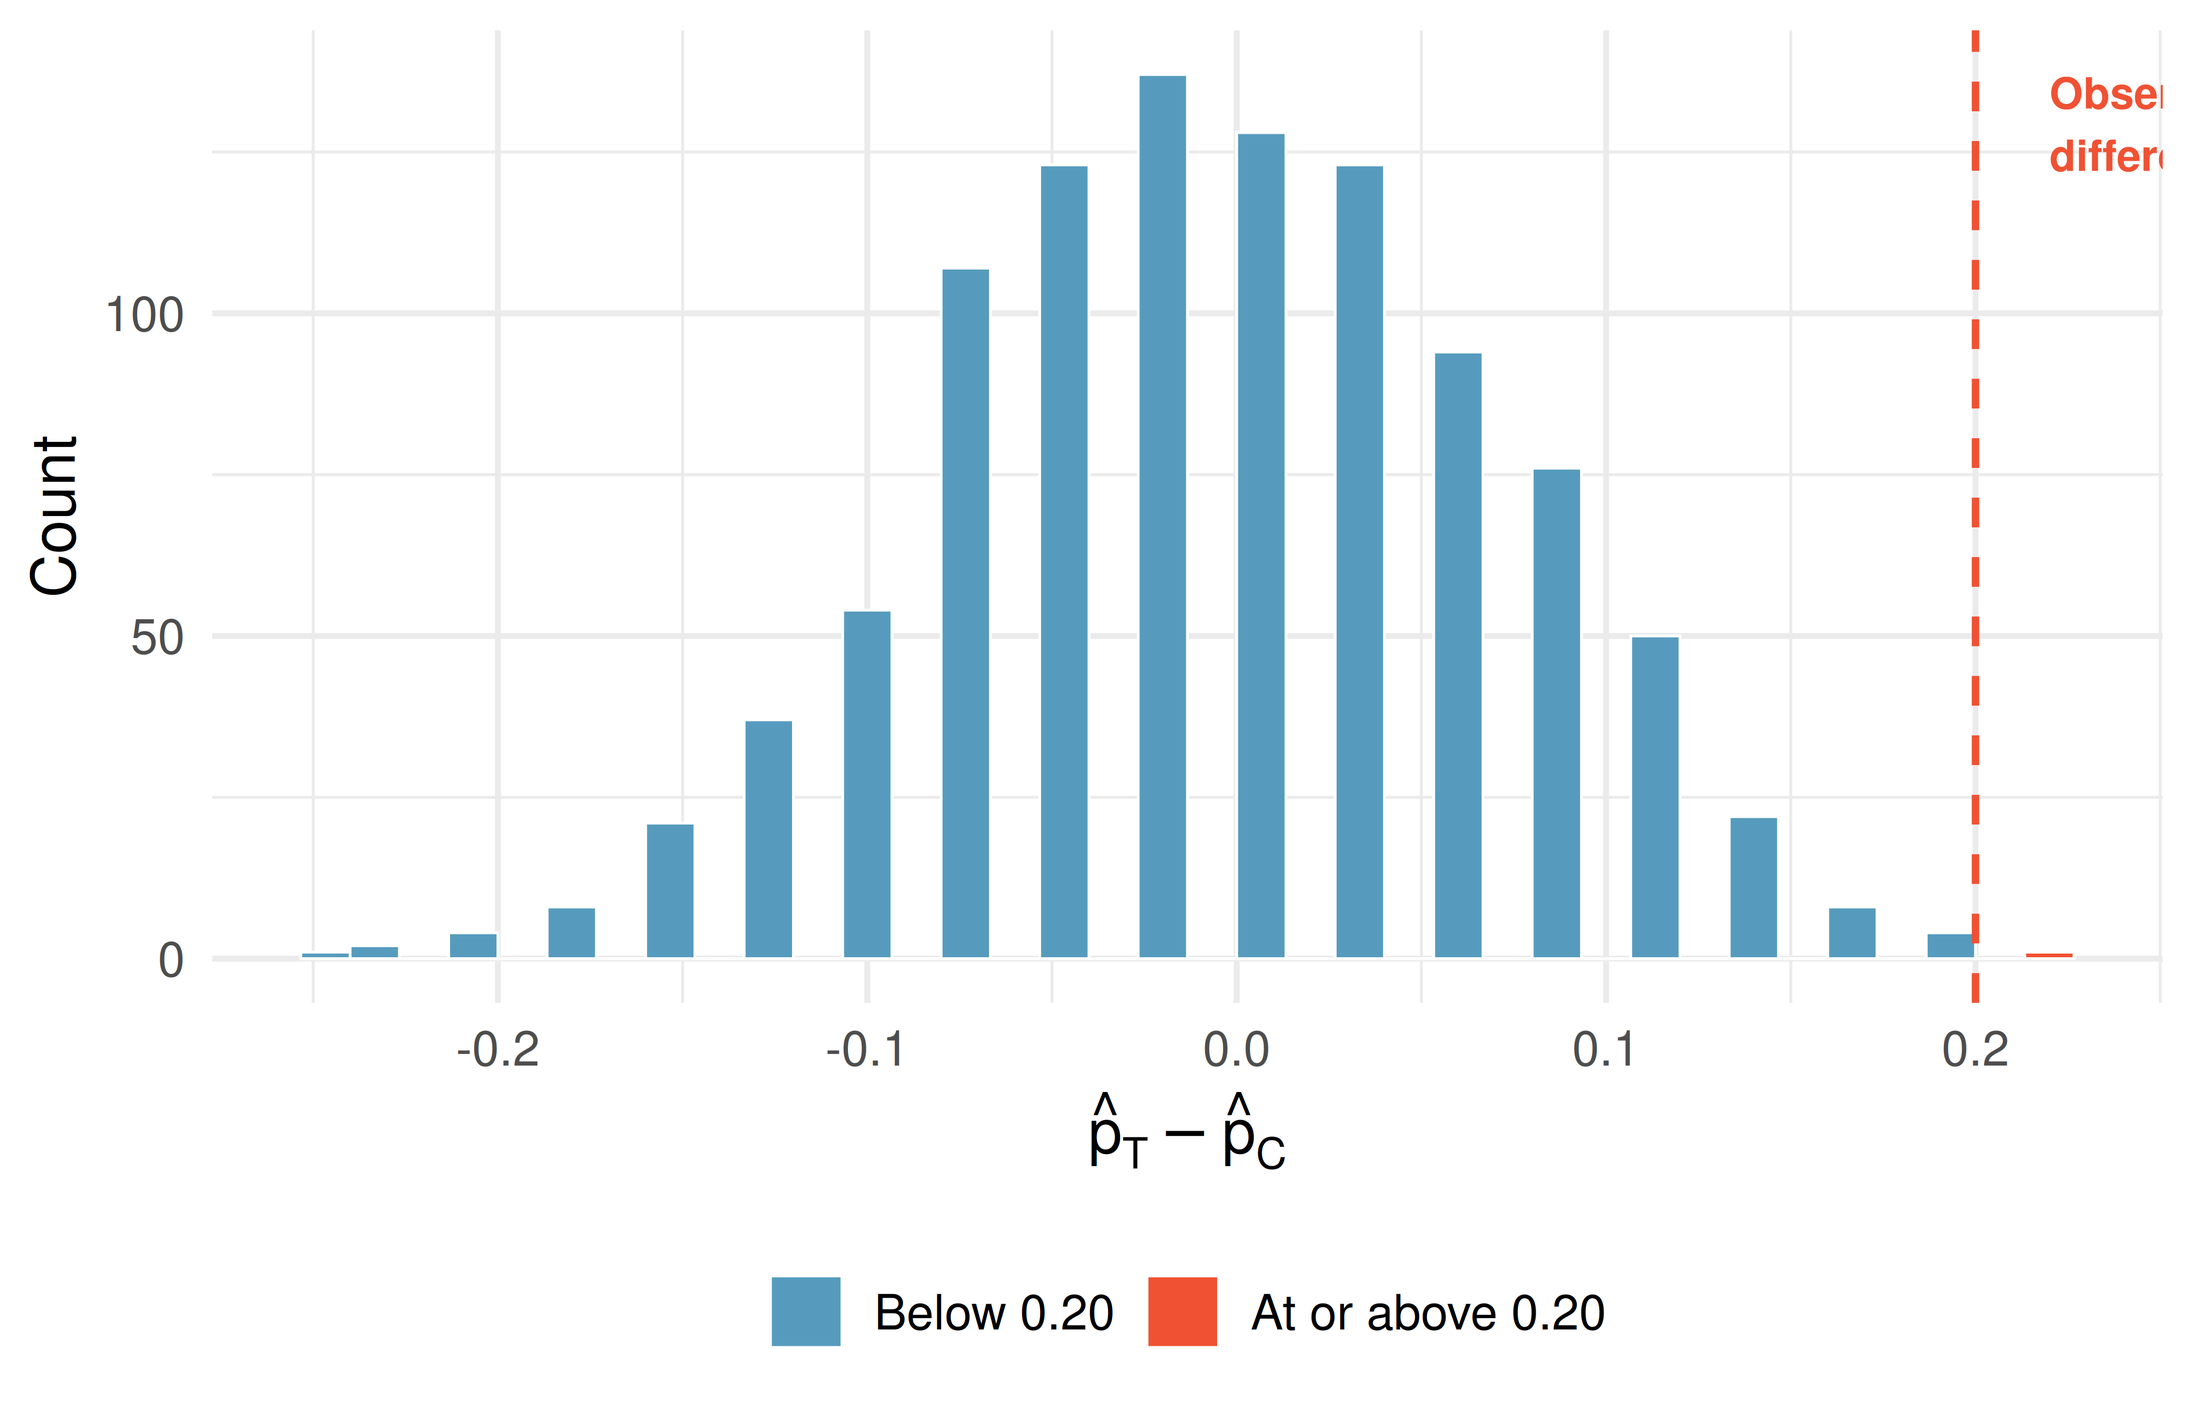
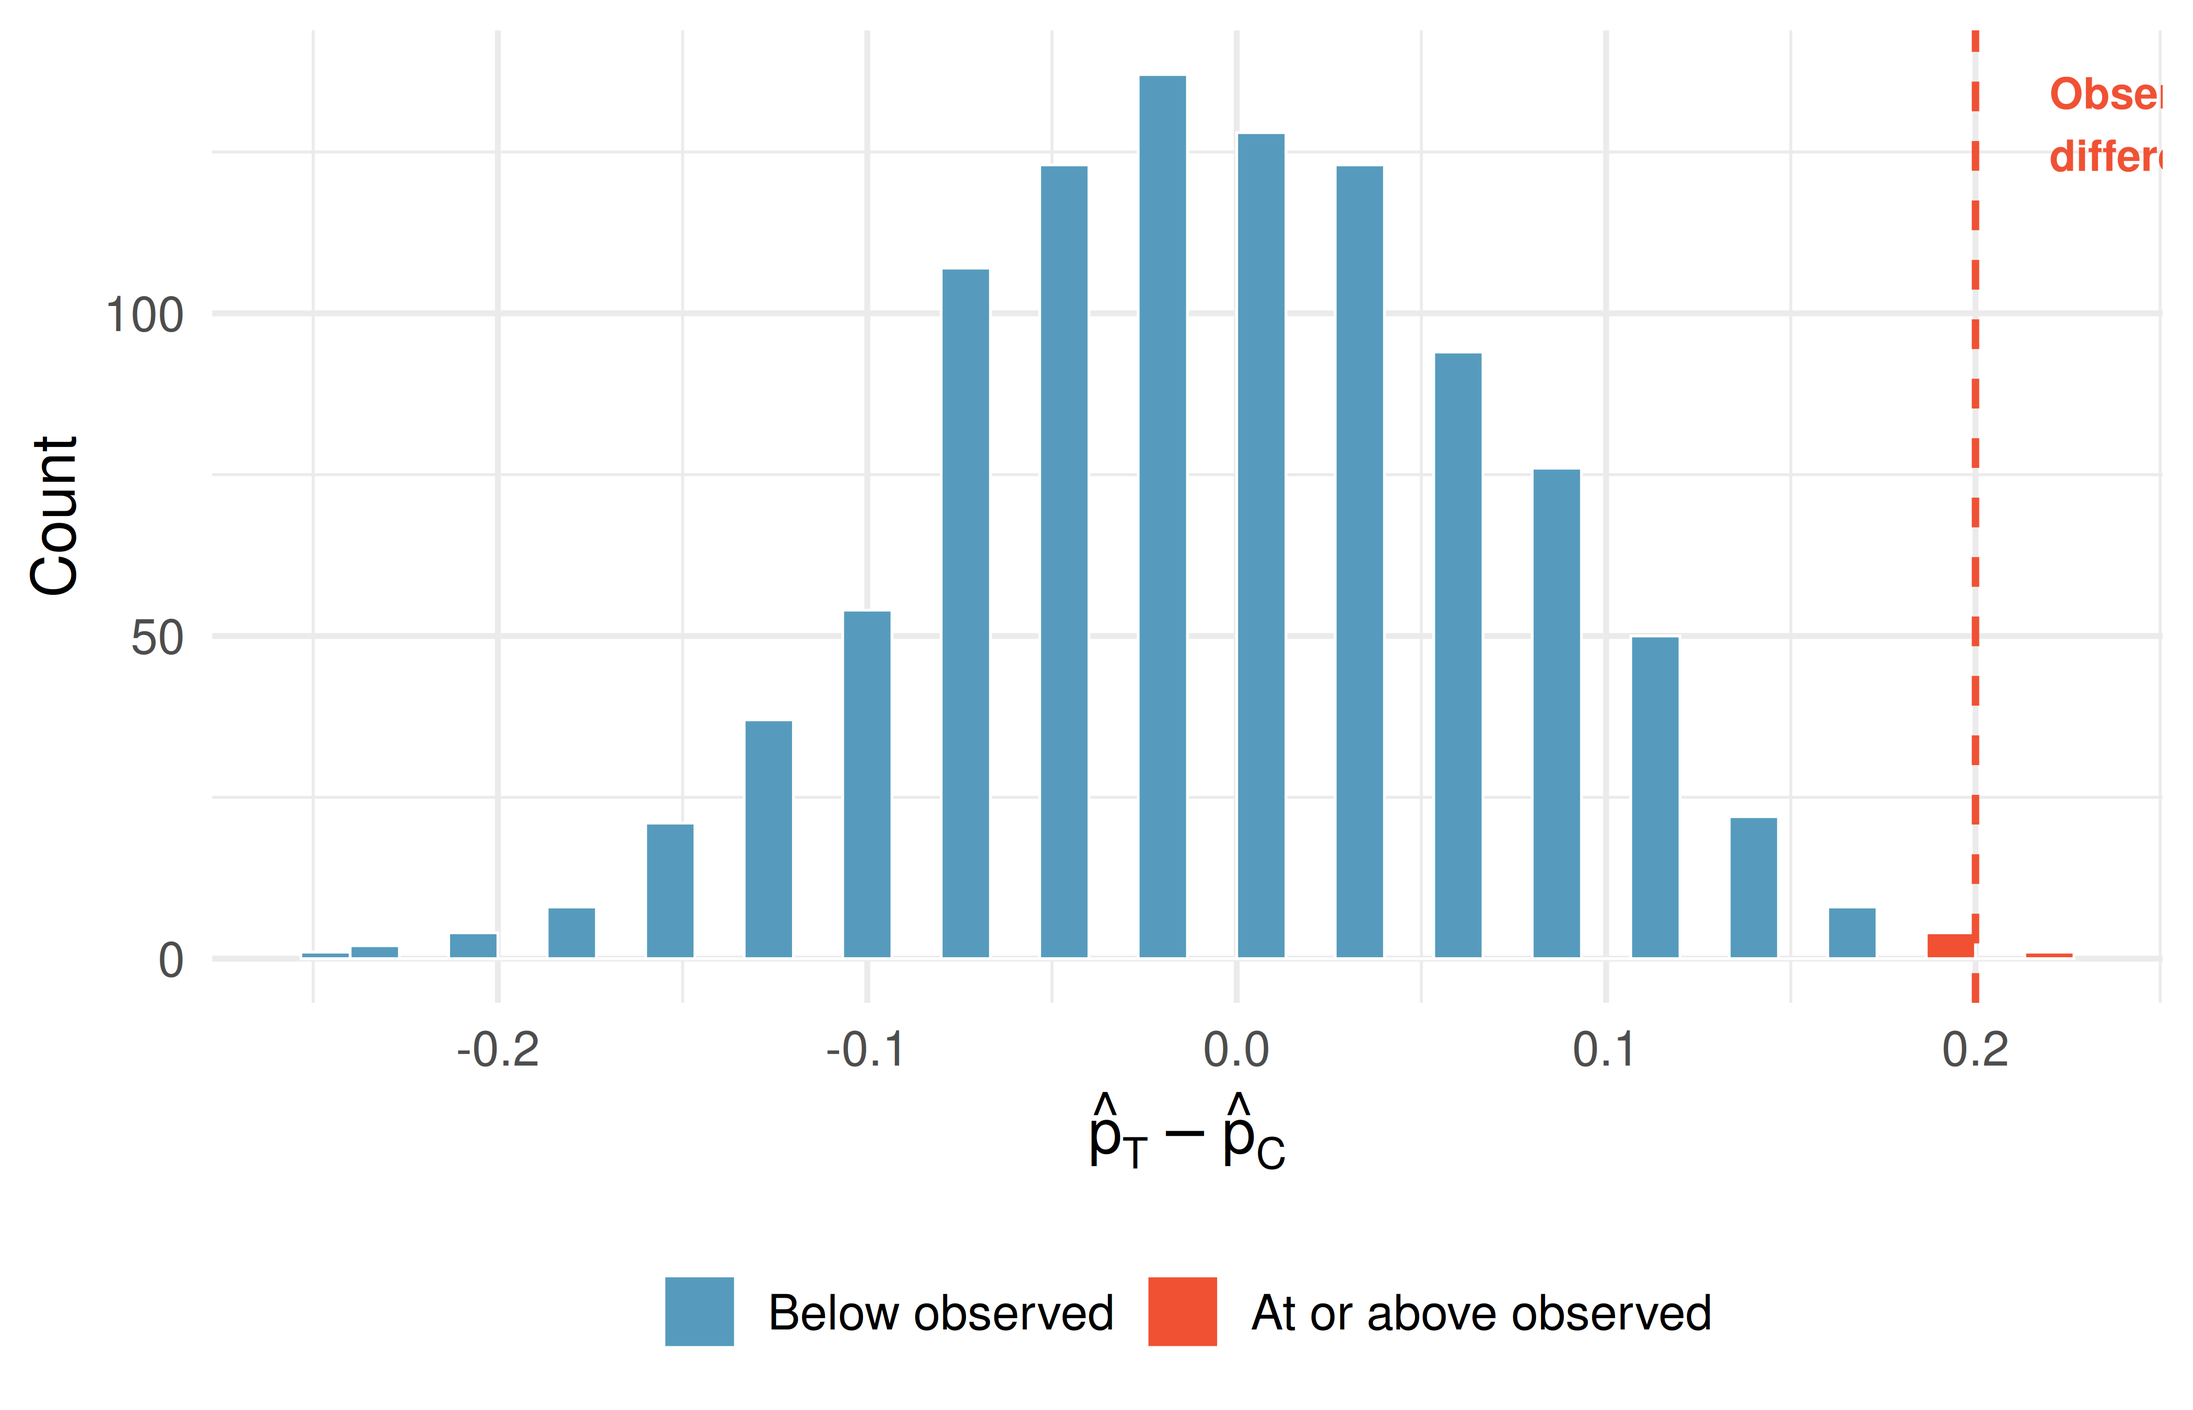
randomization-tests: chapter consistency pass — card=(supervisor's review of a file), fix histogram tie-exclusion bug, Key Terms sample-statistic, opportunity-cost metaphor parallel, percentage-points, file-sex precision

Changed region(s): [[0.2807, 0.9022, 0.499, 0.9644], [0.6862, 0.9022, 0.7798, 0.9644], [0.8733, 0.6533, 0.9045, 0.6844]]

diff --git a/STAT145/textbook/chapters/randomization-tests.html b/STAT145/textbook/chapters/randomization-tests.html
@@ -750,7 +750,7 @@ It is an <strong>experiment</strong>: the researchers randomly assigned each sup
 <p><span class="math display">\[\hat{p}_M - \hat{p}_F = \frac{21}{24} - \frac{14}{24} = 0.875 - 0.583 = 0.292\]</span></p>
 <p>We always subtract the “female” rate from the “male” rate, so a positive value means a higher promotion rate for “male” files — here, <strong>29.2 percentage points higher</strong>. The estimate is large but the sample is small, so it isn’t yet clear whether it reflects real discrimination or ordinary chance. We label two competing claims:</p>
 <ul>
-<li><span class="math inline">\(H_0\)</span>: <strong>Null hypothesis.</strong> The variables <code>sex</code> and <code>decision</code> are independent — the sex on the file has no effect on the decision. The 29.2% gap is just natural variability from the random assignment.</li>
+<li><span class="math inline">\(H_0\)</span>: <strong>Null hypothesis.</strong> The variables <code>sex</code> and <code>decision</code> are independent — the sex on the file has no effect on the decision. The gap of 29.2 percentage points is just natural variability from the random assignment.</li>
 <li><span class="math inline">\(H_A\)</span>: <strong>Alternative hypothesis.</strong> <code>sex</code> and <code>decision</code> are <em>not</em> independent — otherwise-identical candidates are less likely to be promoted when the file states female than when it states male.</li>
 </ul>
 </section>
@@ -760,7 +760,7 @@ It is an <strong>experiment</strong>: the researchers randomly assigned each sup
 <p>We want to know whether a 29.2-point gap would be surprising <em>if the null hypothesis were true</em>. So we simulate what could happen when the sex on the file has no effect on the decision, and see how the observed gap compares.</p>
 <section id="the-card-shuffling-metaphor" class="level3" data-number="7.4.1">
 <h3 data-number="7.4.1" class="anchored" data-anchor-id="the-card-shuffling-metaphor"><span class="header-section-number">7.4.1</span> The card-shuffling metaphor</h3>
-<p>Picture the study as 48 cards, one per supervisor. Each card’s <strong>color</strong> records that supervisor’s decision:</p>
+<p>Picture the study as 48 cards — one for each supervisor’s review of a single file. A card’s <strong>color</strong> records the decision that supervisor made:</p>
 <ul>
 <li>35 <strong>red</strong> cards — recommended promotion;</li>
 <li>13 <strong>white</strong> cards — did not.</li>
@@ -828,10 +828,10 @@ The simulated difference is <span class="math inline">\(18/24 - 17/24 \approx 0.
 <p>To judge how unusual the observed 29.2 points really is, we repeat the shuffle-and-deal many times, building up a picture of what <em>chance alone</em> looks like. Using a computer, we can do this hundreds or thousands of times.</p>
 <div class="cell">
 <div class="cell-output-display">
-<div id="fig-sex-discrim-rand-dist" class="quarto-float quarto-figure quarto-figure-center anchored" alt="A histogram of 100 simulated differences in promotion rates between male and female candidates. The distribution is centered at zero. A small number of simulations at or beyond 0.292 are highlighted, showing they are rare under the null hypothesis.">
+<div id="fig-sex-discrim-rand-dist" class="quarto-float quarto-figure quarto-figure-center anchored" alt="A histogram of 100 simulated differences in promotion rates between male-labeled and female-labeled files. The distribution is centered at zero. A small number of simulations at or beyond 0.292 are highlighted, showing they are rare under the null hypothesis.">
 <figure class="quarto-float quarto-float-fig figure">
 <div aria-describedby="fig-sex-discrim-rand-dist-caption-0ceaefa1-69ba-4598-a22c-09a6ac19f8ca">
-<a href="randomization-tests_files/figure-html/fig-sex-discrim-rand-dist-1.png" class="lightbox" data-gallery="quarto-lightbox-gallery-1" title="Figure&nbsp;7.1: A histogram of differences from 100 simulations produced under the null hypothesis. The simulated sex and decision are independent. Differences at least as large as the observed 0.292 are highlighted in red. ↗ Try this live — shuffle the labels yourself and rebuild the null distribution."><img src="randomization-tests_files/figure-html/fig-sex-discrim-rand-dist-1.png" class="img-fluid figure-img" alt="A histogram of 100 simulated differences in promotion rates between male and female candidates. The distribution is centered at zero. A small number of simulations at or beyond 0.292 are highlighted, showing they are rare under the null hypothesis." width="2100"></a>
+<a href="randomization-tests_files/figure-html/fig-sex-discrim-rand-dist-1.png" class="lightbox" data-gallery="quarto-lightbox-gallery-1" title="Figure&nbsp;7.1: A histogram of differences from 100 simulations produced under the null hypothesis. The simulated sex and decision are independent. Differences at least as large as the observed 0.292 are highlighted in red. ↗ Try this live — shuffle the labels yourself and rebuild the null distribution."><img src="randomization-tests_files/figure-html/fig-sex-discrim-rand-dist-1.png" class="img-fluid figure-img" alt="A histogram of 100 simulated differences in promotion rates between male-labeled and female-labeled files. The distribution is centered at zero. A small number of simulations at or beyond 0.292 are highlighted, showing they are rare under the null hypothesis." width="2100"></a>
 </div>
 <figcaption class="quarto-float-caption-bottom quarto-float-caption quarto-float-fig" id="fig-sex-discrim-rand-dist-caption-0ceaefa1-69ba-4598-a22c-09a6ac19f8ca">
 Figure&nbsp;7.1: A histogram of differences from 100 simulations produced under the null hypothesis. The simulated sex and decision are independent. Differences at least as large as the observed 0.292 are highlighted in red. <a href="https://learnlens.org/statlens/simulate/randomization-diff-props/">↗ Try this live</a> — shuffle the labels yourself and rebuild the null distribution.
@@ -842,19 +842,19 @@ Figure&nbsp;7.1: A histogram of differences from 100 simulations produced under 
 </div>
 <p>The distribution of these simulated differences is centered around 0. This makes sense: under the null hypothesis, which makes no distinction between male and female files, we would expect the difference to be near zero with some random fluctuation.</p>
 <div class="workedexample">
-<p>How often would you observe a difference of at least 29.2% according to the randomization distribution? Often, sometimes, rarely, or never?</p>
+<p>How often would you observe a difference of at least 29.2 percentage points according to the randomization distribution? Often, sometimes, rarely, or never?</p>
 <hr>
-<p>It appears that a difference of at least 29.2% under the null hypothesis would only happen about 2% of the time. Such a low probability indicates that observing such a large difference from chance alone is rare.</p>
+<p>It appears that a difference of at least 29.2 percentage points under the null hypothesis would only happen about 2% of the time. Such a low probability indicates that observing such a large difference from chance alone is rare.</p>
 </div>
 </section>
 <section id="the-conclusion" class="level3" data-number="7.4.4">
 <h3 data-number="7.4.4" class="anchored" data-anchor-id="the-conclusion"><span class="header-section-number">7.4.4</span> The conclusion</h3>
-<p>The difference of 29.2% is a rare event if there really is no effect of sex on promotion decisions. This provides us with two possible interpretations:</p>
+<p>The difference of 29.2 percentage points is a rare event if there really is no effect of sex on promotion decisions. This provides us with two possible interpretations:</p>
 <ul>
 <li>If <span class="math inline">\(H_0\)</span> is true: Sex has no effect on promotion decisions, and we observed a difference that is so large it would only happen rarely by chance.</li>
 <li>If <span class="math inline">\(H_A\)</span> is true: Sex has an effect on promotion decisions, and what we observed was actually due to equally qualified female candidates being discriminated against.</li>
 </ul>
-<p>When we conduct formal studies, we reject a null position if the data strongly conflict with it. Since there was only about a 2% probability of obtaining a difference at least as large as 29.2% under the null hypothesis, we conclude that the data provide strong evidence of sex discrimination. We reject the null hypothesis in favor of the alternative.</p>
+<p>When we conduct formal studies, we reject a null position if the data strongly conflict with it. Since there was only about a 2% probability of obtaining a difference at least as large as 29.2 percentage points under the null hypothesis, we conclude that the data provide strong evidence of sex discrimination. We reject the null hypothesis in favor of the alternative.</p>
 <div class="statlens">
 <p><strong>Predict → Do → Explain.</strong> Open the <a href="https://learnlens.org/statlens/simulate/randomization-diff-props/?activity=randomization-test-gated.json" target="_blank">Randomization Test Walkthrough</a> — a gated activity that loads the sex-discrimination data and walks you through the permutation logic with a cards-shuffling mechanism strip alongside the resampled dotplot. The activity opens with a <strong>Predict</strong> step (commit to the center, shape, and where you expect the observed 0.292 to fall in the shuffle distribution), walks you through 1,000 shuffles with a reality-check gate at each stage, and closes with an <strong>Explain</strong> step where you articulate why the shuffle centers at zero and why the tail fraction <em>is</em> the p-value. Your predictions and explanation save locally in the tool, so you can return to your work on the same device.</p>
 </div>
@@ -930,15 +930,15 @@ Tip
 </table>
 <p>We define a “success” as a student who chooses <em>not</em> to buy the video. The difference in the proportion choosing not to buy is:</p>
 <p><span class="math display">\[\hat{p}_{T} - \hat{p}_{C} = \frac{34}{75} - \frac{19}{75} = 0.453 - 0.253 = 0.200\]</span></p>
-<p>The proportion of students who chose not to buy was 20 percentage points higher in the treatment group. Is this 20% difference so large that it is unlikely to have occurred from chance alone?</p>
+<p>The proportion of students who chose not to buy was 20 percentage points higher in the treatment group. Is this difference of 20 percentage points so large that it is unlikely to have occurred from chance alone?</p>
 </section>
 <section id="simulating-under-the-null" class="level3" data-number="7.5.2">
 <h3 data-number="7.5.2" class="anchored" data-anchor-id="simulating-under-the-null"><span class="header-section-number">7.5.2</span> Simulating under the null</h3>
-<p>Using the same randomization technique, we start with 150 index cards: 53 labeled “not buy video” and 97 labeled “buy video.” We shuffle all cards together and deal them into two stacks of 75.</p>
+<p>Using the same technique, picture 150 cards — one for each student’s decision. A card’s <strong>color</strong> records that decision: 53 red cards mean “did not buy” (our “success”) and 97 white cards mean “bought.” Two stacks stand for the treatment and control groups, 75 cards each. Under the null hypothesis the reminder changes no one’s decision, so each card’s color stays fixed — we shuffle all 150 cards and deal them into the two stacks.</p>
 <div class="workedexample">
-<p>If we randomly assign the cards into simulated treatment and control groups, how many “not buy video” cards would we expect in each group? What would be the expected difference in proportions?</p>
+<p>If we shuffle and deal the cards into simulated treatment and control stacks, how many red (“did not buy”) cards would we expect in each stack? What would be the expected difference in proportions?</p>
 <hr>
-<p>Since the groups are equal in size, we would expect about <span class="math inline">\(53/2 \approx 26\)</span> or 27 “not buy video” cards in each group, yielding a difference of roughly 0%. Due to random chance, we might sometimes observe a little more or fewer than 26–27.</p>
+<p>Since the stacks are equal in size, we would expect about <span class="math inline">\(53/2 \approx 26\)</span> or 27 red cards in each, yielding a difference of roughly 0 percentage points. Due to random chance, we might sometimes observe a little more or fewer than 26–27.</p>
 </div>
 <p>After running 1,000 simulations, the results show that the distribution of simulated differences is centered at 0, as expected under the null hypothesis.</p>
 <div class="cell">
@@ -955,7 +955,7 @@ Figure&nbsp;7.2: A histogram of 1,000 simulated differences produced under the n
 </div>
 </div>
 </div>
-<p>Under the null hypothesis, we would observe a difference of at least +20% about 0.6% of the time. That is very rare! We conclude the data provide strong evidence there is a treatment effect: reminding students that they could spend money later lowers their chance of making a purchase. Because this is an experiment (with random assignment), we can make a causal claim.</p>
+<p>Under the null hypothesis, we would observe a difference of at least +20 percentage points about 0.6% of the time. That is very rare! We conclude the data provide strong evidence there is a treatment effect: reminding students that they could spend money later lowers their chance of making a purchase. Because this is an experiment (with random assignment), we can make a causal claim.</p>
 </section>
 </section>
 <section id="sec-p-values" class="level2" data-number="7.6">
@@ -1001,7 +1001,7 @@ A note on the vocabulary
 </div>
 <p>The most commonly used discernibility level is <span class="math inline">\(\alpha = 0.05\)</span>, meaning we reject the null hypothesis when the p-value is less than 5%. However, there is nothing magical about 0.05 — it is a convention, and in some fields or applications a stricter (e.g., 0.01) or more lenient (e.g., 0.10) threshold may be appropriate.</p>
 <div class="workedexample">
-<p>In the opportunity cost study, we found that a difference of at least 20% would occur only about 6-in-1,000 times if the reminder had no influence on student decisions. The p-value is approximately 0.006. Would you classify this as statistically discernible?</p>
+<p>In the opportunity cost study, we found that a difference of at least 20 percentage points would occur only about 6-in-1,000 times if the reminder had no influence on student decisions. The p-value is approximately 0.006. Would you classify this as statistically discernible?</p>
 <hr>
 <p>Yes. Since <span class="math inline">\(p\text{-value} = 0.006 &lt; 0.05 = \alpha\)</span>, the data provide statistically discernible evidence that US college students were actually influenced by the reminder.</p>
 </div>
@@ -1164,8 +1164,8 @@ Testing a single proportion by simulation
 <td style="text-align: left;">The distribution of the sample statistic under repeated randomizations</td>
 </tr>
 <tr class="even">
-<td style="text-align: left;">Test statistic</td>
-<td style="text-align: left;">The summary value (e.g., difference in proportions) used to evaluate hypotheses</td>
+<td style="text-align: left;">Sample statistic</td>
+<td style="text-align: left;">The summary value computed from the data (e.g., a difference in proportions) used to evaluate the hypotheses</td>
 </tr>
 <tr class="odd">
 <td style="text-align: left;">P-value</td>
